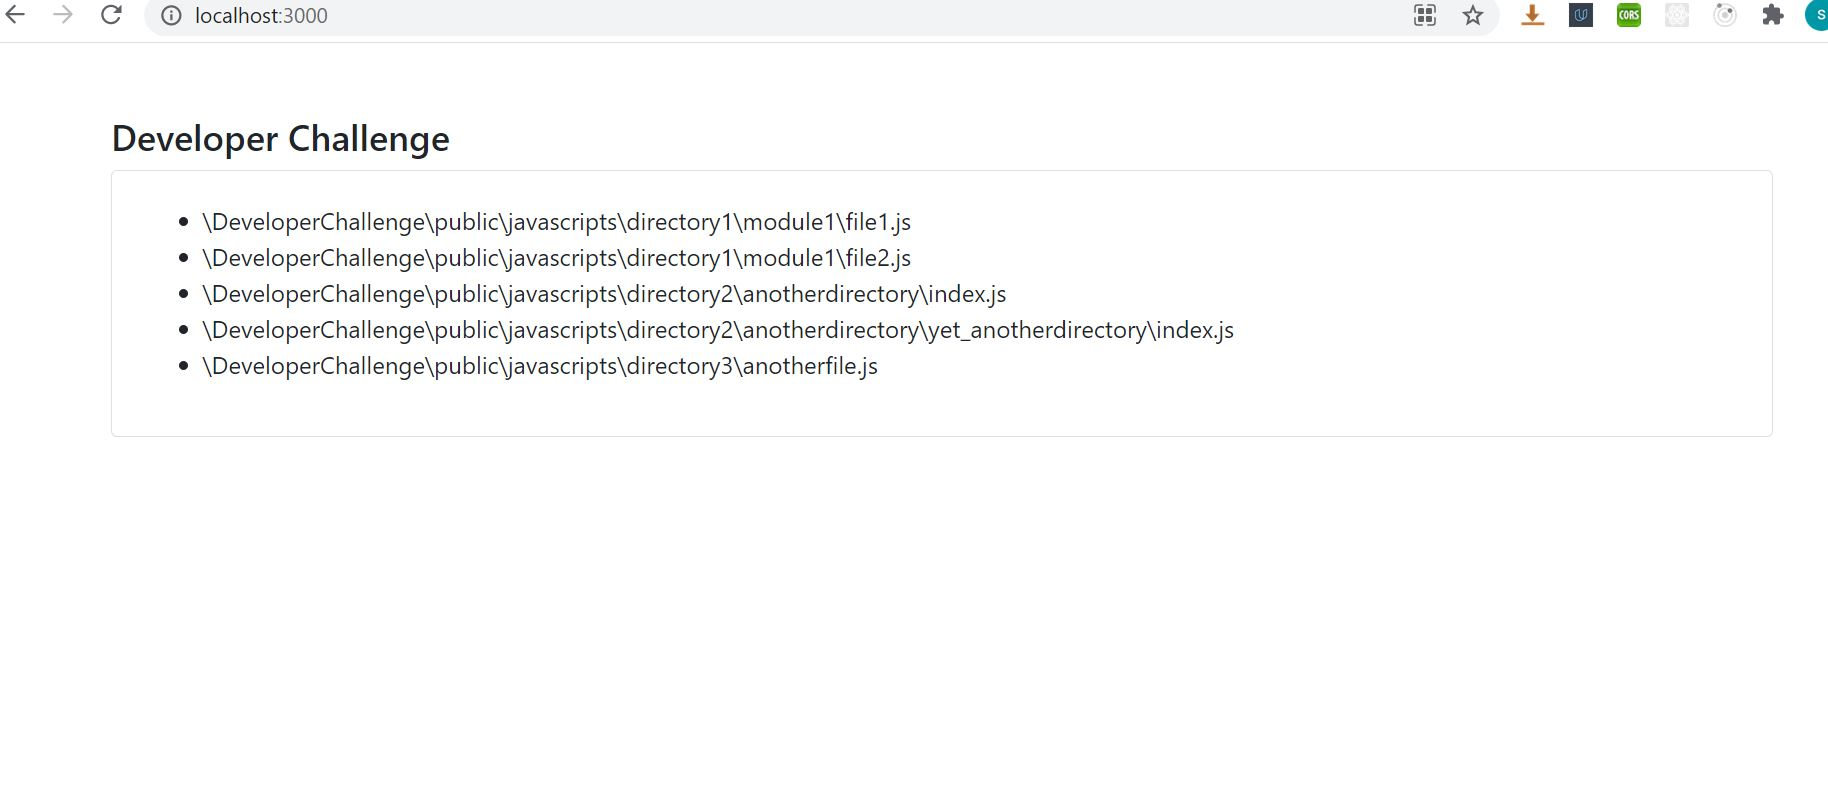
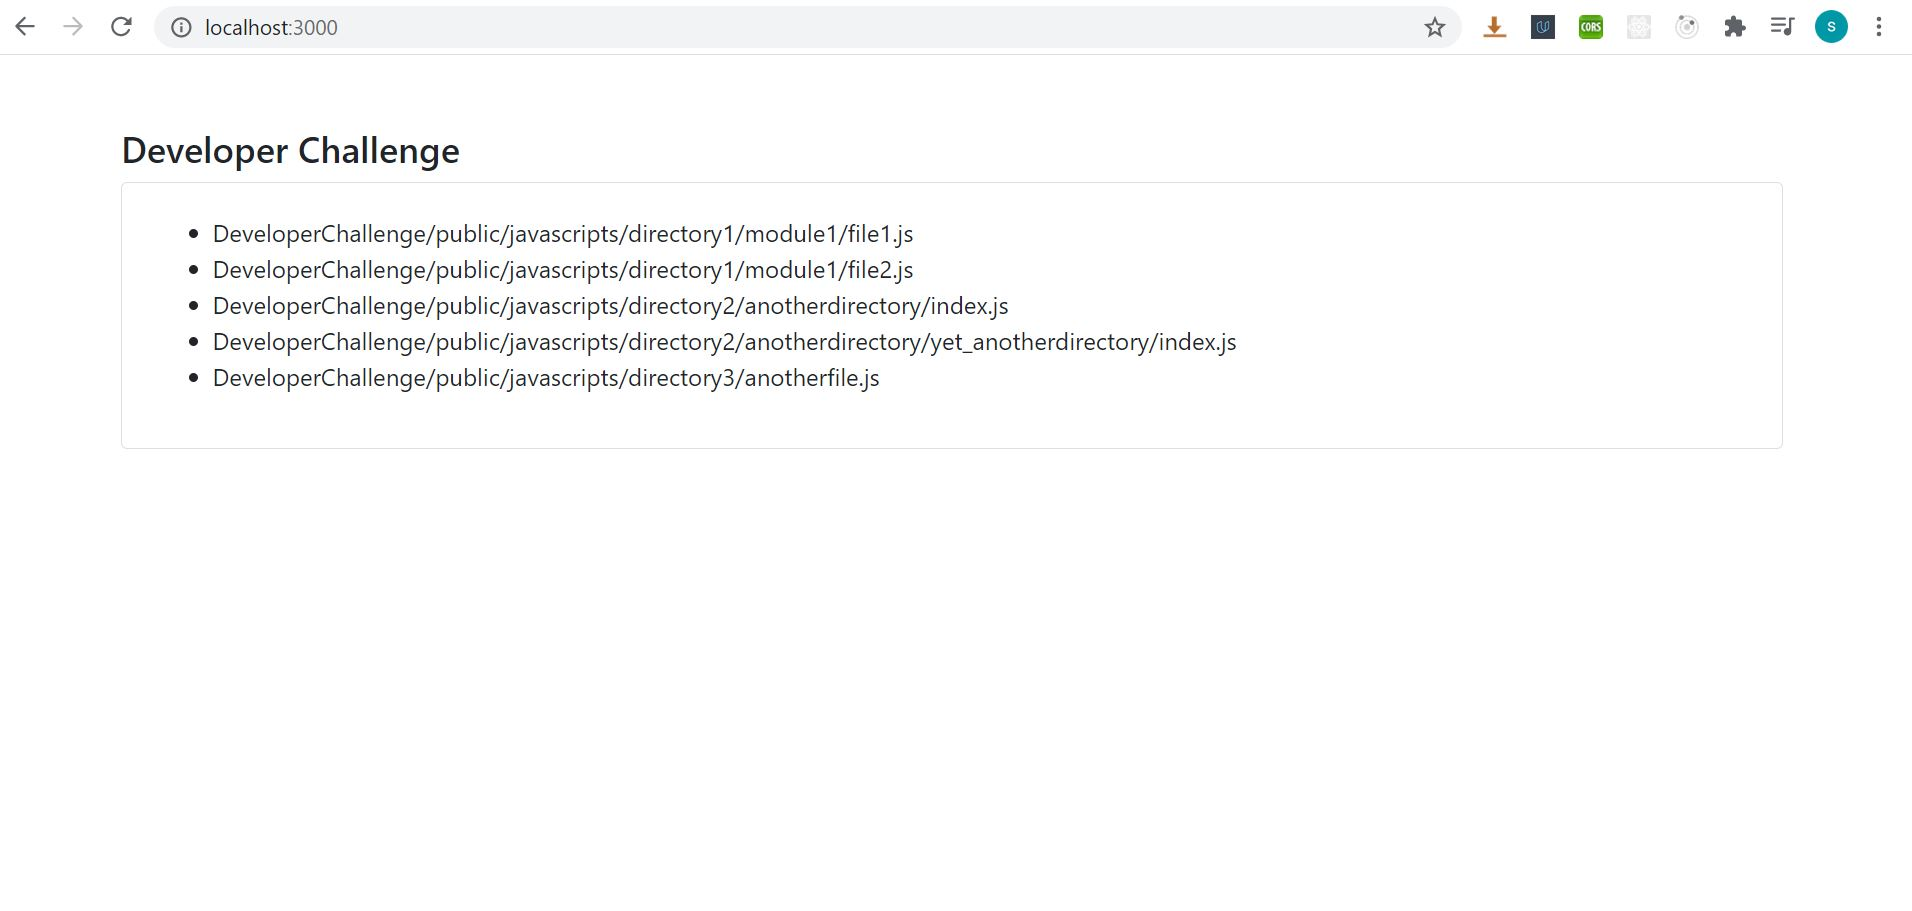
changes in index.js

diff --git a/routes/index.js b/routes/index.js
@@ -68,7 +68,9 @@ const checkIfFileHasString = async (path, opts = "utf8") =>
 /* GET home page. */
 router.get('/', function(req, res, next) {
    maincheck().then(i=>{
-    const outputArr = i.map(item => item.split('C:\\Users\\sowmi')[1]);
+    const outputArr = i.map(item => {
+       return item.split("\\").slice(3).join("/");
+    });
     res.render('index', { title: outputArr }); 
   })
 });
